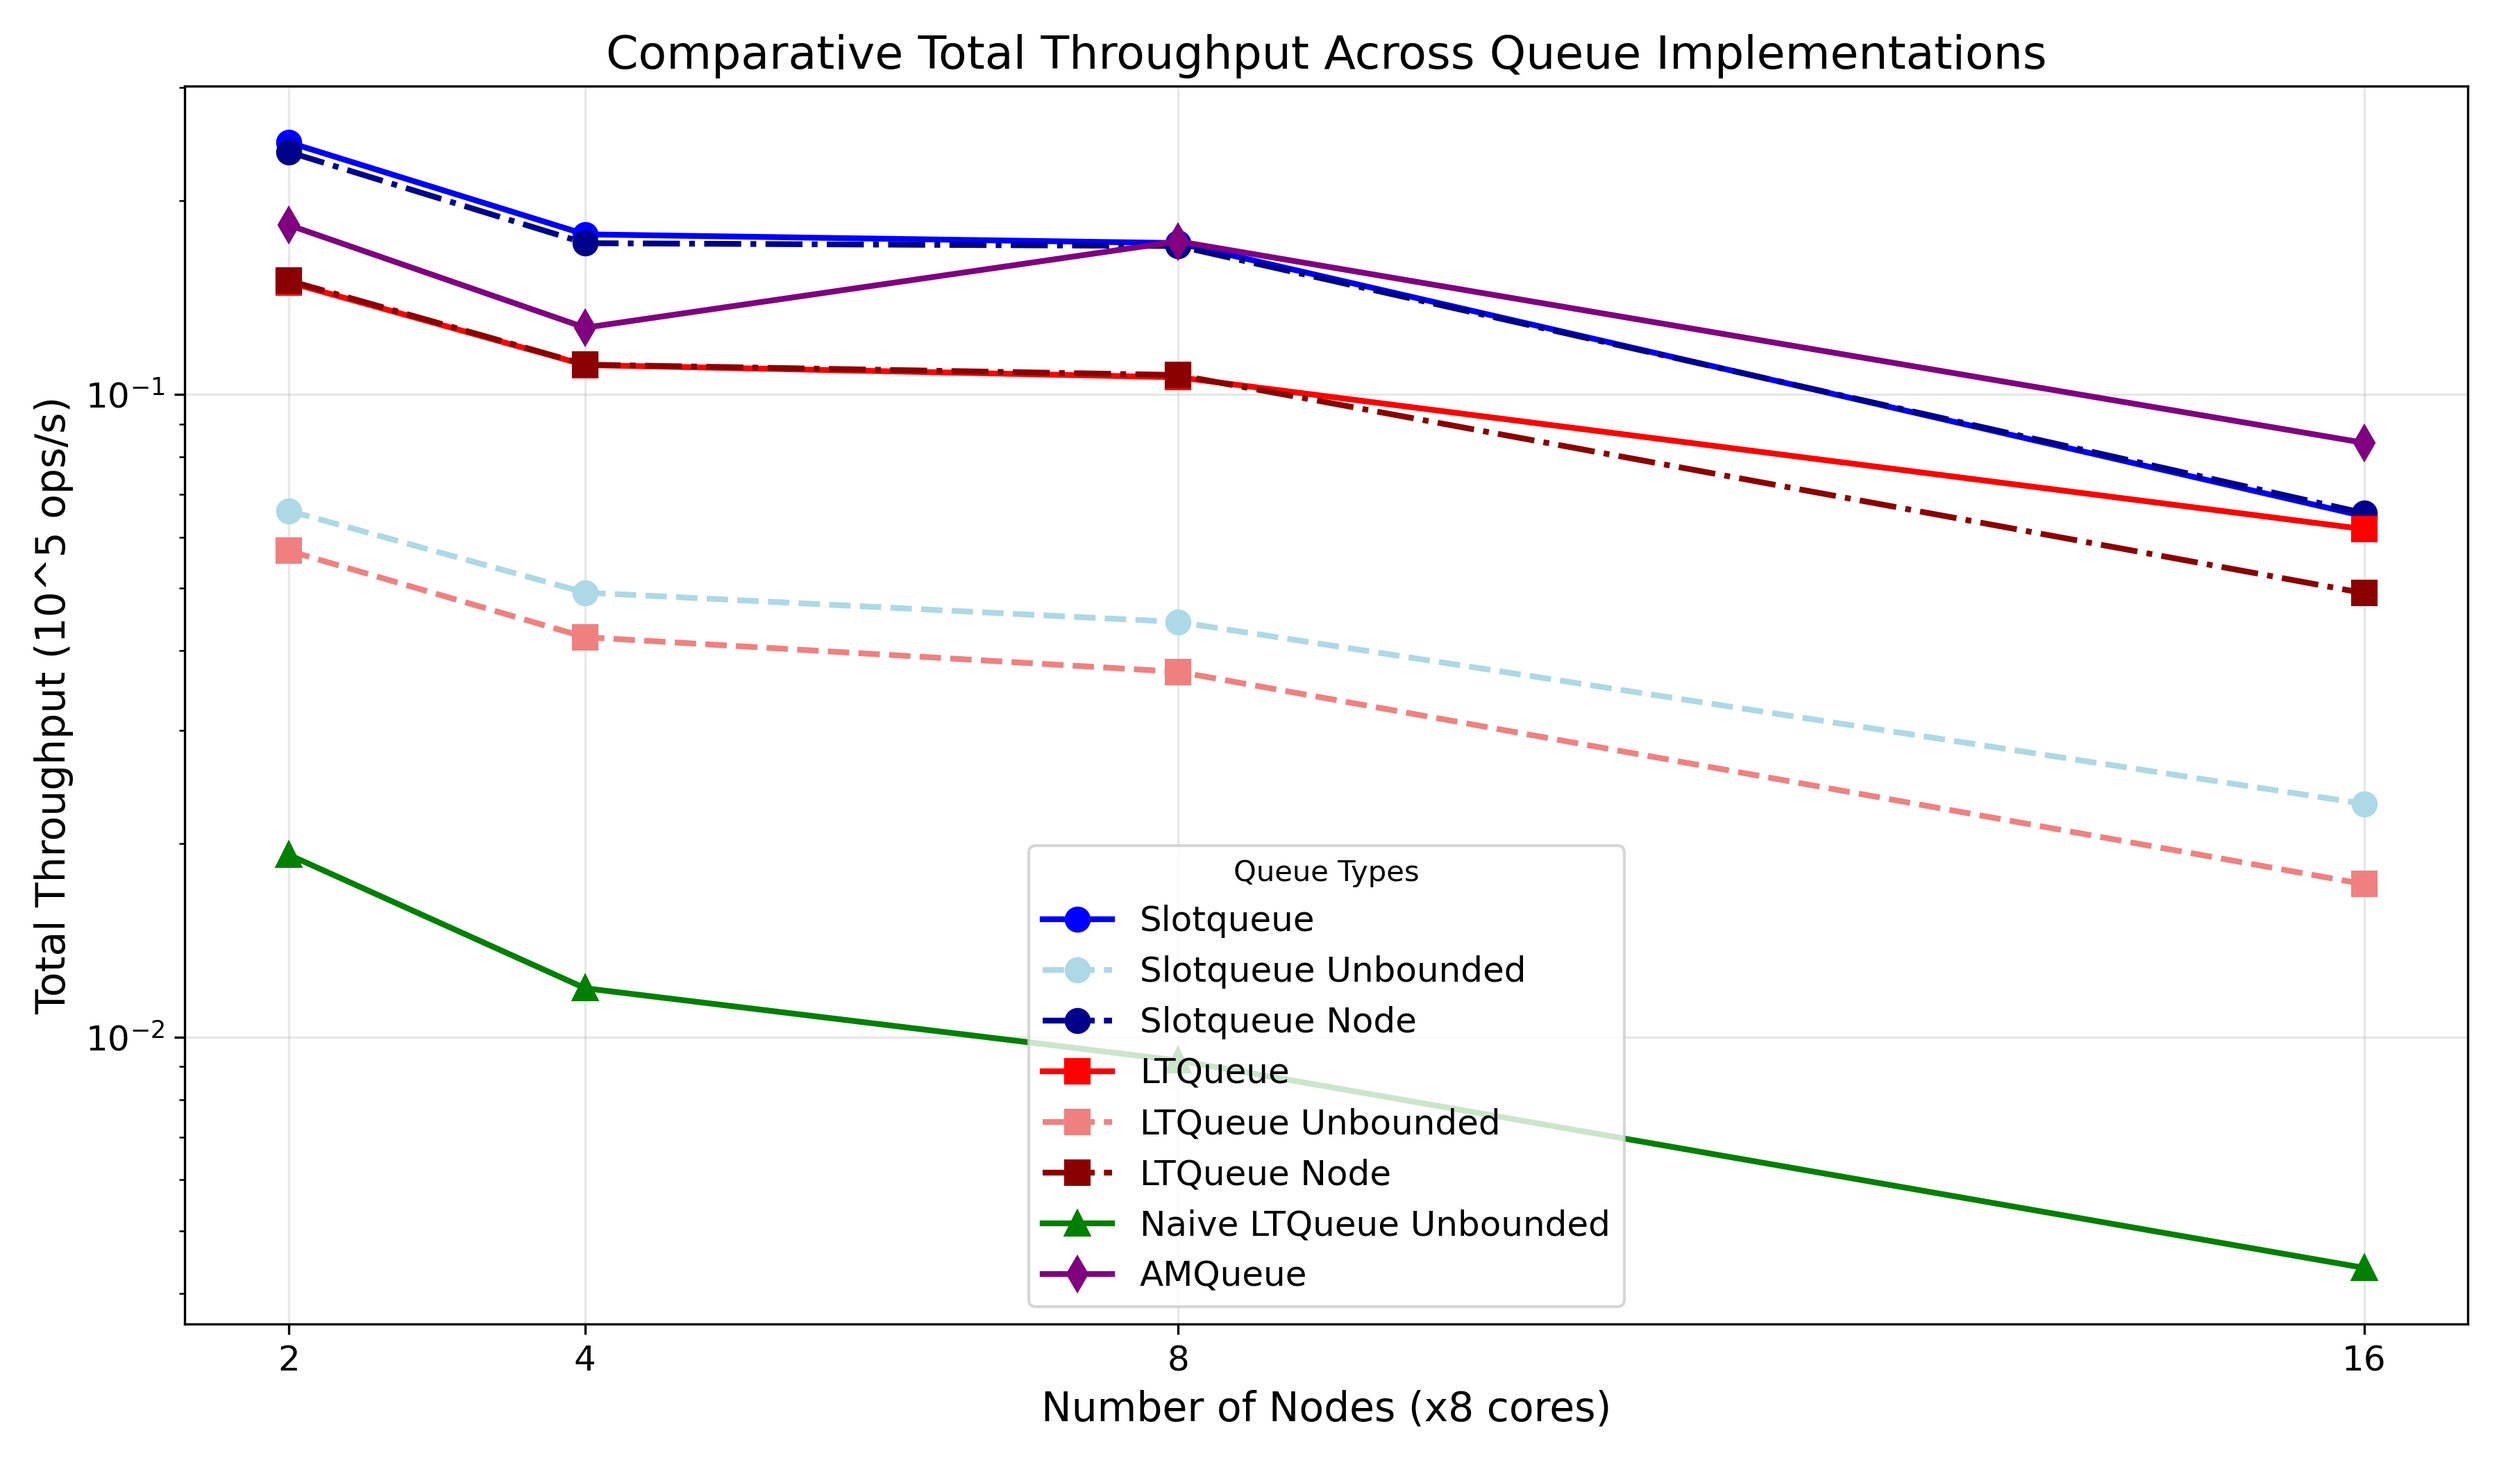
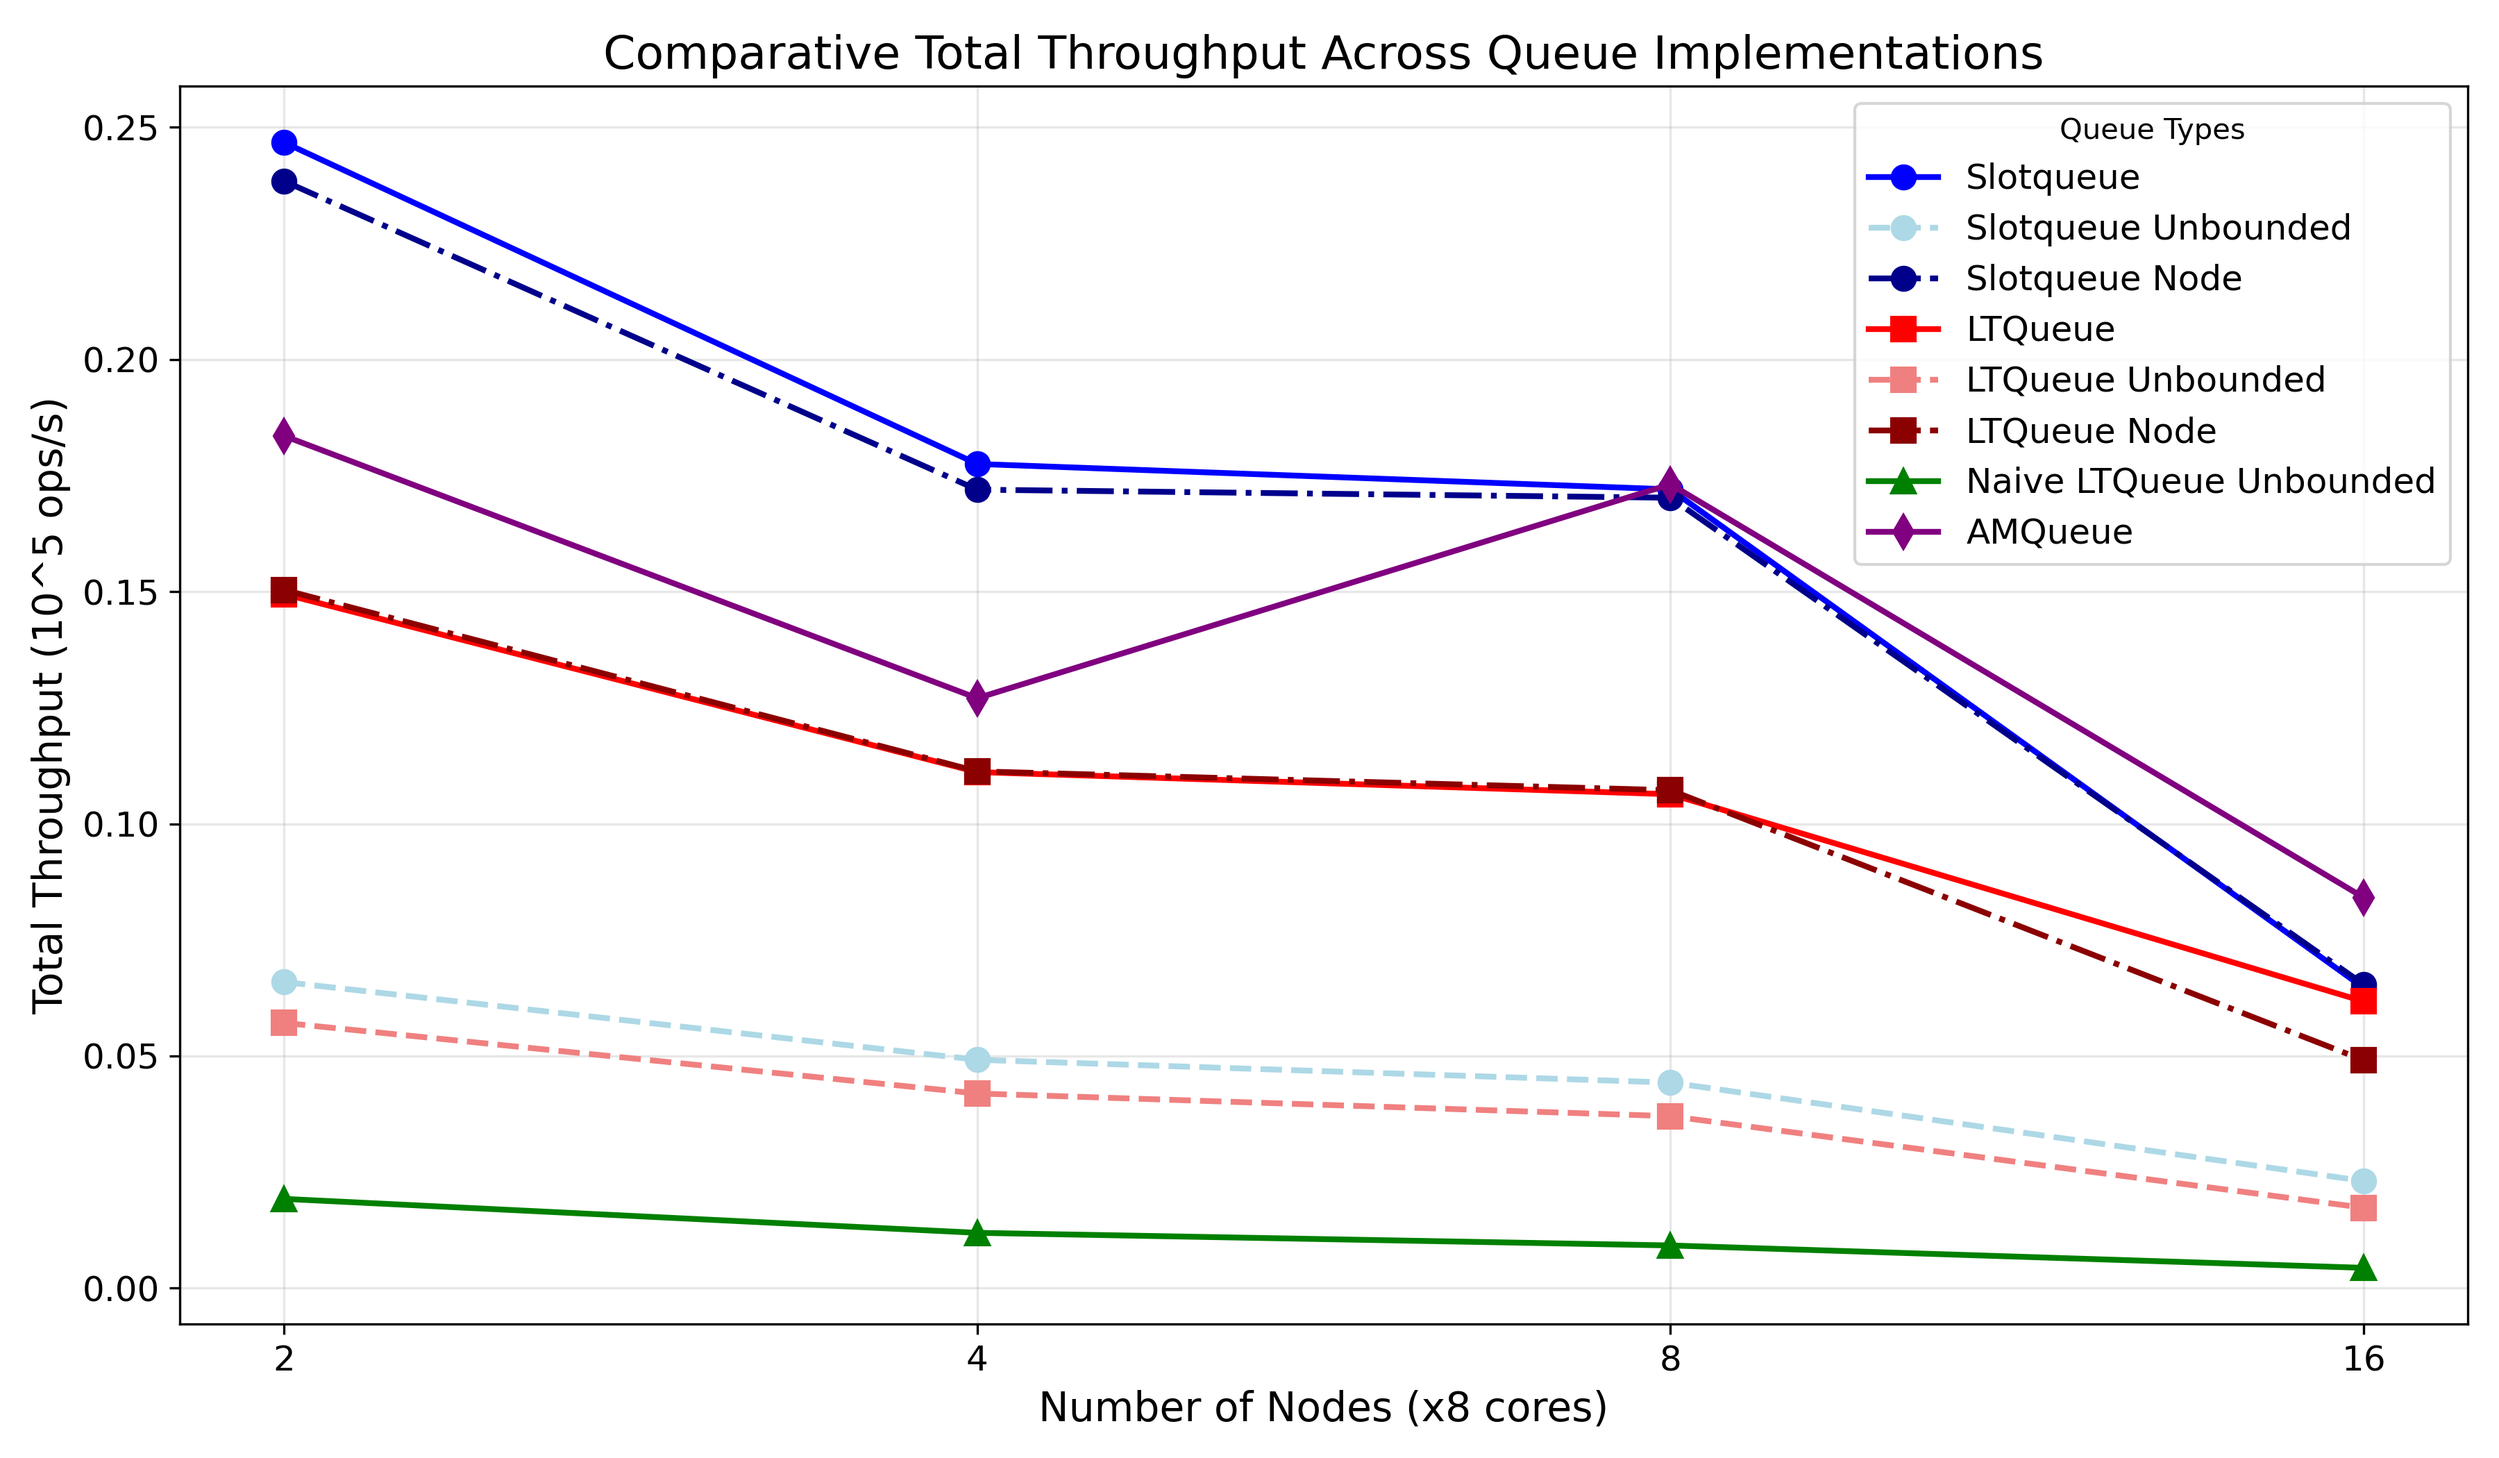
fix(viz): make xaxis use log

diff --git a/viz/microbenchmarks/single-one-queue/non-rdma-cluster/by-nodes.py b/viz/microbenchmarks/single-one-queue/non-rdma-cluster/by-nodes.py
@@ -114,7 +114,8 @@ for metric in metrics:
     plt.title(f"Comparative {title} Across Queue Implementations", fontsize=16)
     plt.xlabel("Number of Nodes (x8 cores)", fontsize=14)
     plt.ylabel(f"{title} ({unit})", fontsize=14)
-    plt.yscale("log")  # Set y-axis to logarithmic scale
+    plt.xscale("log")
+    plt.minorticks_off()
     plt.grid(True, alpha=0.3)
     plt.legend(title="Queue Types", loc="best", fontsize=12)
     plt.xticks(nodes, [str(int(node)) for node in nodes], fontsize=12)
@@ -128,4 +129,3 @@ for metric in metrics:
 print(
     "All comparative plots have been generated in the 'non-rdma-cluster/all/by-nodes' folder."
 )
-
